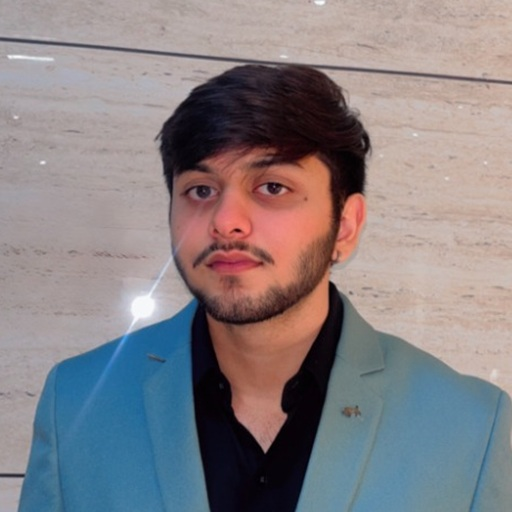
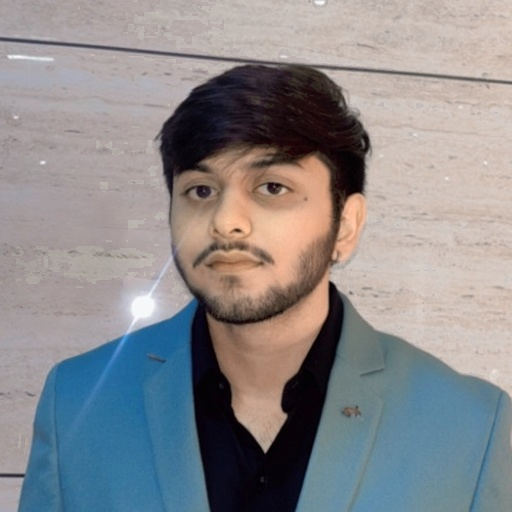
Color grade Jenish Shah portrait: remove excess red/magenta cast for natural skin tones

Changed region(s): [[0.3438, 0.2812, 0.7188, 0.875]]

diff --git a/frontend/src/components/About.jsx b/frontend/src/components/About.jsx
@@ -61,7 +61,7 @@ const About = () => {
           <div className="relative group flex-shrink-0">
             <div className="p-1 rounded-2xl bg-gradient-to-b from-white/10 via-[var(--accent-gold,#E5C158)]/25 to-white/5 border border-white/10 shadow-lg">
               <img 
-                src={`${import.meta.env.BASE_URL}jenish-shah.jpg`} 
+                src={`${import.meta.env.BASE_URL}jenish-shah.jpg?v=natural`} 
                 alt="Jenish Shah" 
                 className="w-28 h-28 md:w-32 md:h-32 rounded-xl object-cover object-center shadow-inner"
                 onError={(e) => {

diff --git a/frontend/src/components/WorkWithMe.jsx b/frontend/src/components/WorkWithMe.jsx
@@ -136,7 +136,7 @@ const WorkWithMe = () => {
           <div className="flex items-center gap-3.5 mb-4">
             {/* Clean borderless Jenish avatar image without thick white border */}
             <img
-              src={`${import.meta.env.BASE_URL}jenish-shah.jpg`}
+              src={`${import.meta.env.BASE_URL}jenish-shah.jpg?v=natural`}
               alt="Jenish Shah"
               className="w-12 h-12 rounded-xl object-cover shrink-0 shadow-md border border-white/10"
               onError={(e) => {
